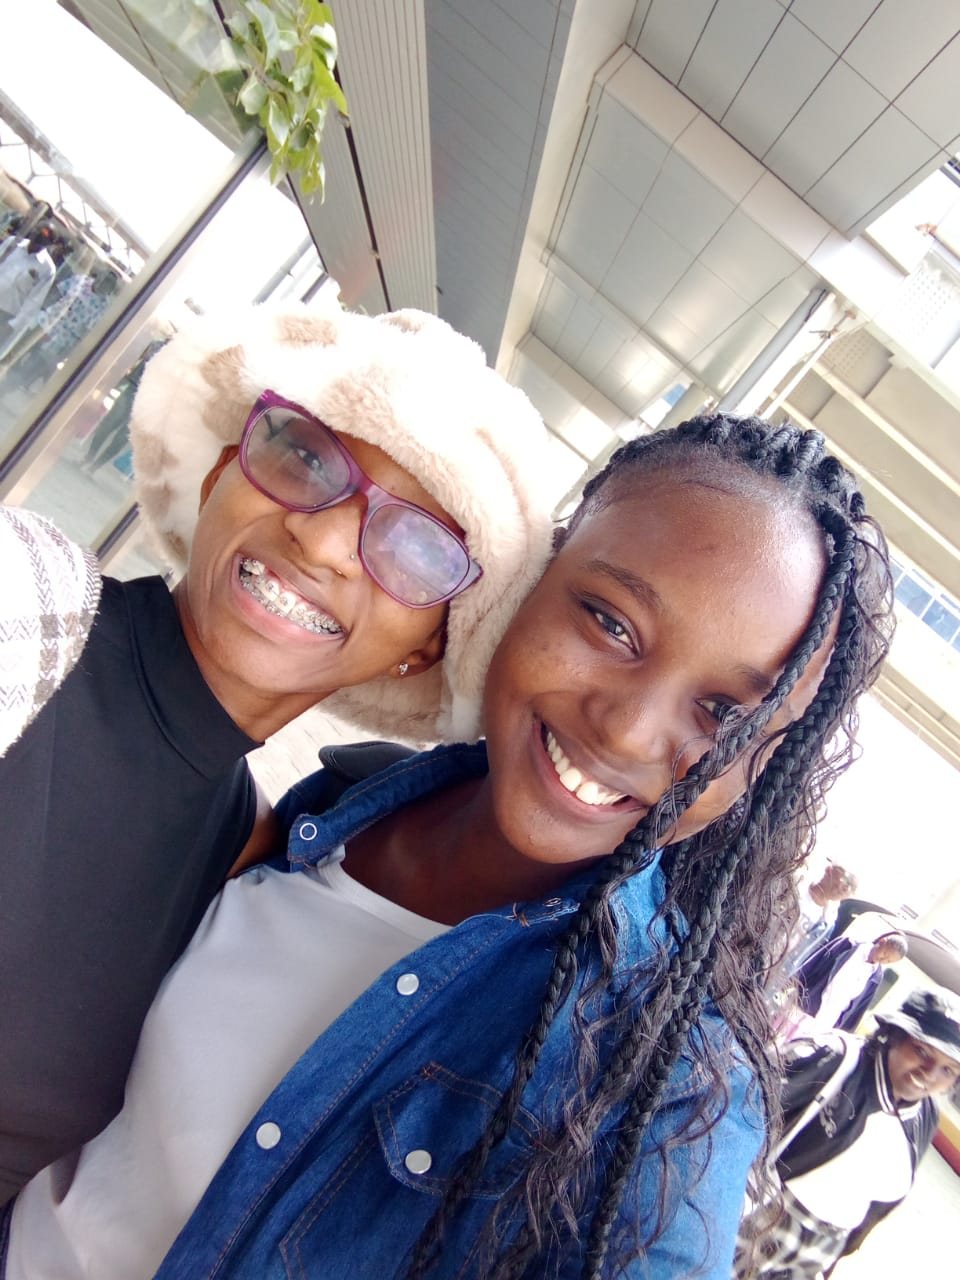
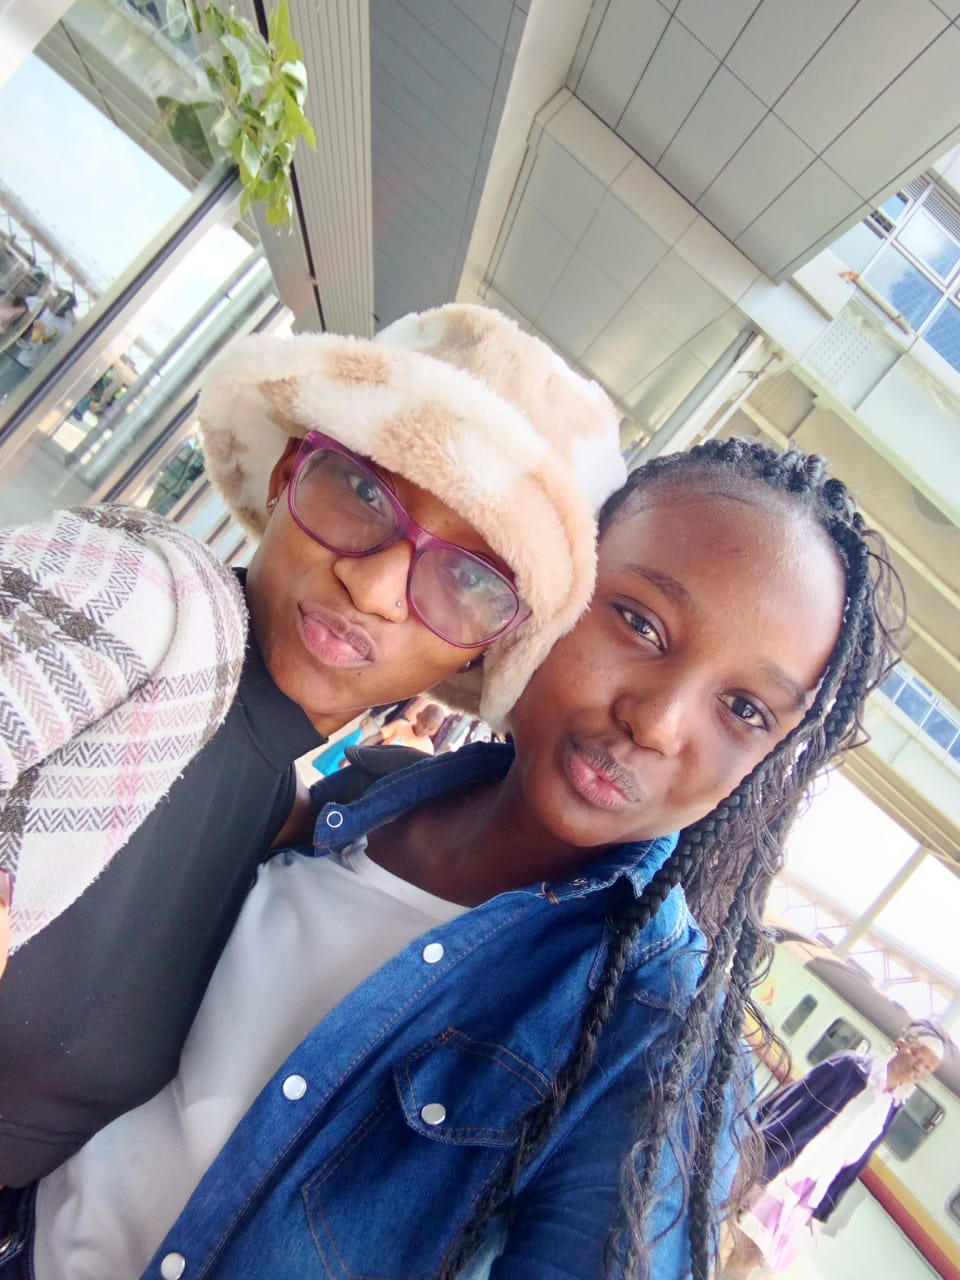
Ajib Gathoni picture showing twice fixed. And added Jane's picture with Debbie >.<

diff --git a/script.js b/script.js
@@ -255,6 +255,17 @@ I love you.
 `
   },
   {
+    from: `Lots of Love 
+Jane.`,
+    message: `Debbie my baby,
+
+I’m genuinely so happy for you and so proud of the woman you’re Becoming 🥹❤
+You’re not just a great friend, you’re such a beautiful soul, and I love how deeply you love Jesus. May this new chapter bring you closer to Him, closer to your purpose, and into rooms you never even imagined you’d enter. May God bless the work of your hands and give you the courage to keep becoming everything He created you to be.
+I pray that even in the moments when life feels uncertain, you’ll always recognise His voice guiding you. And honestly, I hope this friendship is one of those gifts God allows us to keep for a very, very long time. 🥹I want to see the career woman, the woman of faith, the wife🤭the mum🥰 the woman who becomes everything she prayed to be and I want to be there cheering you on through all of it. Isaiah 30:21 Whether you turn to the right or to the left, your ears will hear a voice behind you, saying, ‘This is the way,walk in it.' 
+Congratulations graduate! 🥳 May this be the beginning of the beautiful things God has prepared for you 
+              `
+  },
+  {
     from: "With Love, Eunice ❤",
     message: `Dearest Debbie congratulations on your well deserved success 🙌 now you have the power n all that it takes to win as many souls to the kingdom as possible do your thing ,wishing you the very best `
   },
